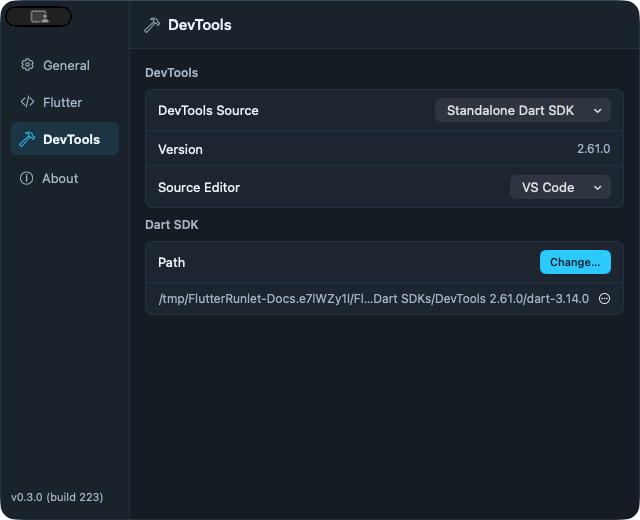
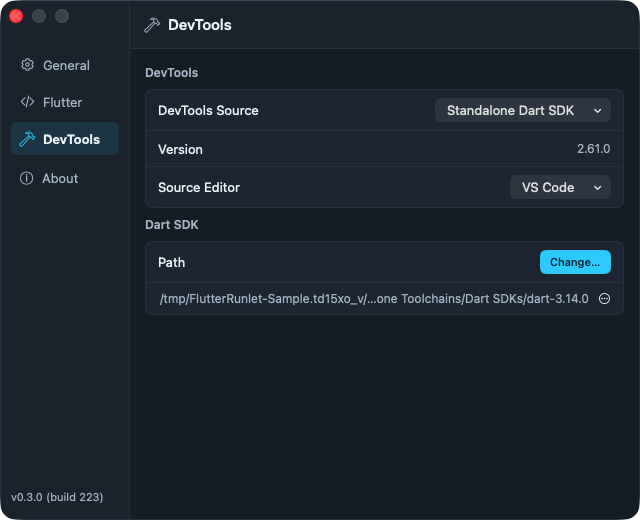
docs: 重拍不含共享标记的中英文截图

Changed region(s): [[0.25, 0.5538, 0.8438, 0.5846], [0.0, 0.0, 0.125, 0.0615], [0.875, 0.5538, 0.9062, 0.5846]]

diff --git a/docs/DEVELOPMENT.md b/docs/DEVELOPMENT.md
@@ -20,7 +20,7 @@ xcodebuild -project FlutterRunlet.xcodeproj -scheme FlutterRunlet \
 
 把可重建的编译缓存和试打包产物放在 `.build/`，把原始验收截图、日志、测试结果包和与签核摘要绑定的候选留在 `.private/`，只提交脱敏结论。清理时保留签核引用的原始证据及候选；重新构建的二进制不能替代锁定摘要的原件。
 
-更新用户文档时，同步维护[英文首页](../README.md)和[简体中文说明](../README.zh-CN.md)。为每种语言拍摄对应的 [README 截图](screenshots/)。用隔离示例取图，保留完整窗口与标题栏，排除鼠标指针和桌面背景。提交前按[协作约定](../AGENTS.md#文档与边界)检查各语言版正文、链接、截图内容和图像元数据。
+更新用户文档时，同步维护[英文首页](../README.md)和[简体中文说明](../README.zh-CN.md)。为每种语言拍摄对应的 [README 截图](screenshots/)。用隔离示例取图，保留完整窗口、标题栏和原生窗口按钮。逐张检查窗口四角，发现共享或录屏标记、鼠标指针、桌面背景时重新取图。提交前按[协作约定](../AGENTS.md#文档与边界)检查各语言版正文、链接、截图内容和图像元数据。
 
 ## 打包本地候选
 

diff --git a/AGENTS.md b/AGENTS.md
@@ -23,6 +23,7 @@
 - 涉及配置解析、任务执行或环境恢复时，先读技术契约的对应章节。FlutterRunlet 不直接改写用户 Flutter 项目文件。项目已配置任务的文件副作用按技术契约处理。
 - UI 修改限于本轮授权范围。超出授权且影响已验收布局、视觉或交互的调整，须经用户明确确认。
 - 每次更新 `README.md` 或任一语言版本，提交前检查公开正文、链接和所引用的图片是否脱敏。使用示例项目、设备名和 SDK 路径，逐张检查画面文字及图片元数据，清除本机用户名、个人路径、业务数据、内网地址和凭据。原始验收材料留在本地忽略目录。
+- README 的公开截图使用独立示例取图。逐张检查整个窗口及四角，保留完整标题栏和原生窗口按钮。画面不得包含系统屏幕共享或录屏标记、自动化指针及桌面内容；发现这些元素时重新取图。
 
 ## 测试与验证
 

diff --git a/README.md b/README.md
@@ -26,7 +26,7 @@ I built FlutterRunlet so I could keep my existing Flutter configurations, leave 
 | **DevTools settings** | **About** |
 | [![FlutterRunlet DevTools settings with a standalone SDK and a shortened path](docs/screenshots/devtools.jpg)](docs/screenshots/devtools.jpg) | [![About FlutterRunlet with Check for Updates and four links](docs/screenshots/about.jpg)](docs/screenshots/about.jpg) |
 
-The DevTools, [full path popover](docs/screenshots/devtools-path.jpg), [General settings](docs/screenshots/settings.jpg), and About screenshots are from v0.3.0 build 223. The main window and menu bar were captured on v0.2.0 with sample data.
+The DevTools, [full path popover](docs/screenshots/devtools-path.jpg), [General settings](docs/screenshots/settings.jpg), and About screenshots show the v0.3.0 build 223 interface with sample data. The main window and menu bar were captured on v0.2.0 with sample data.
 
 ## Install
 
